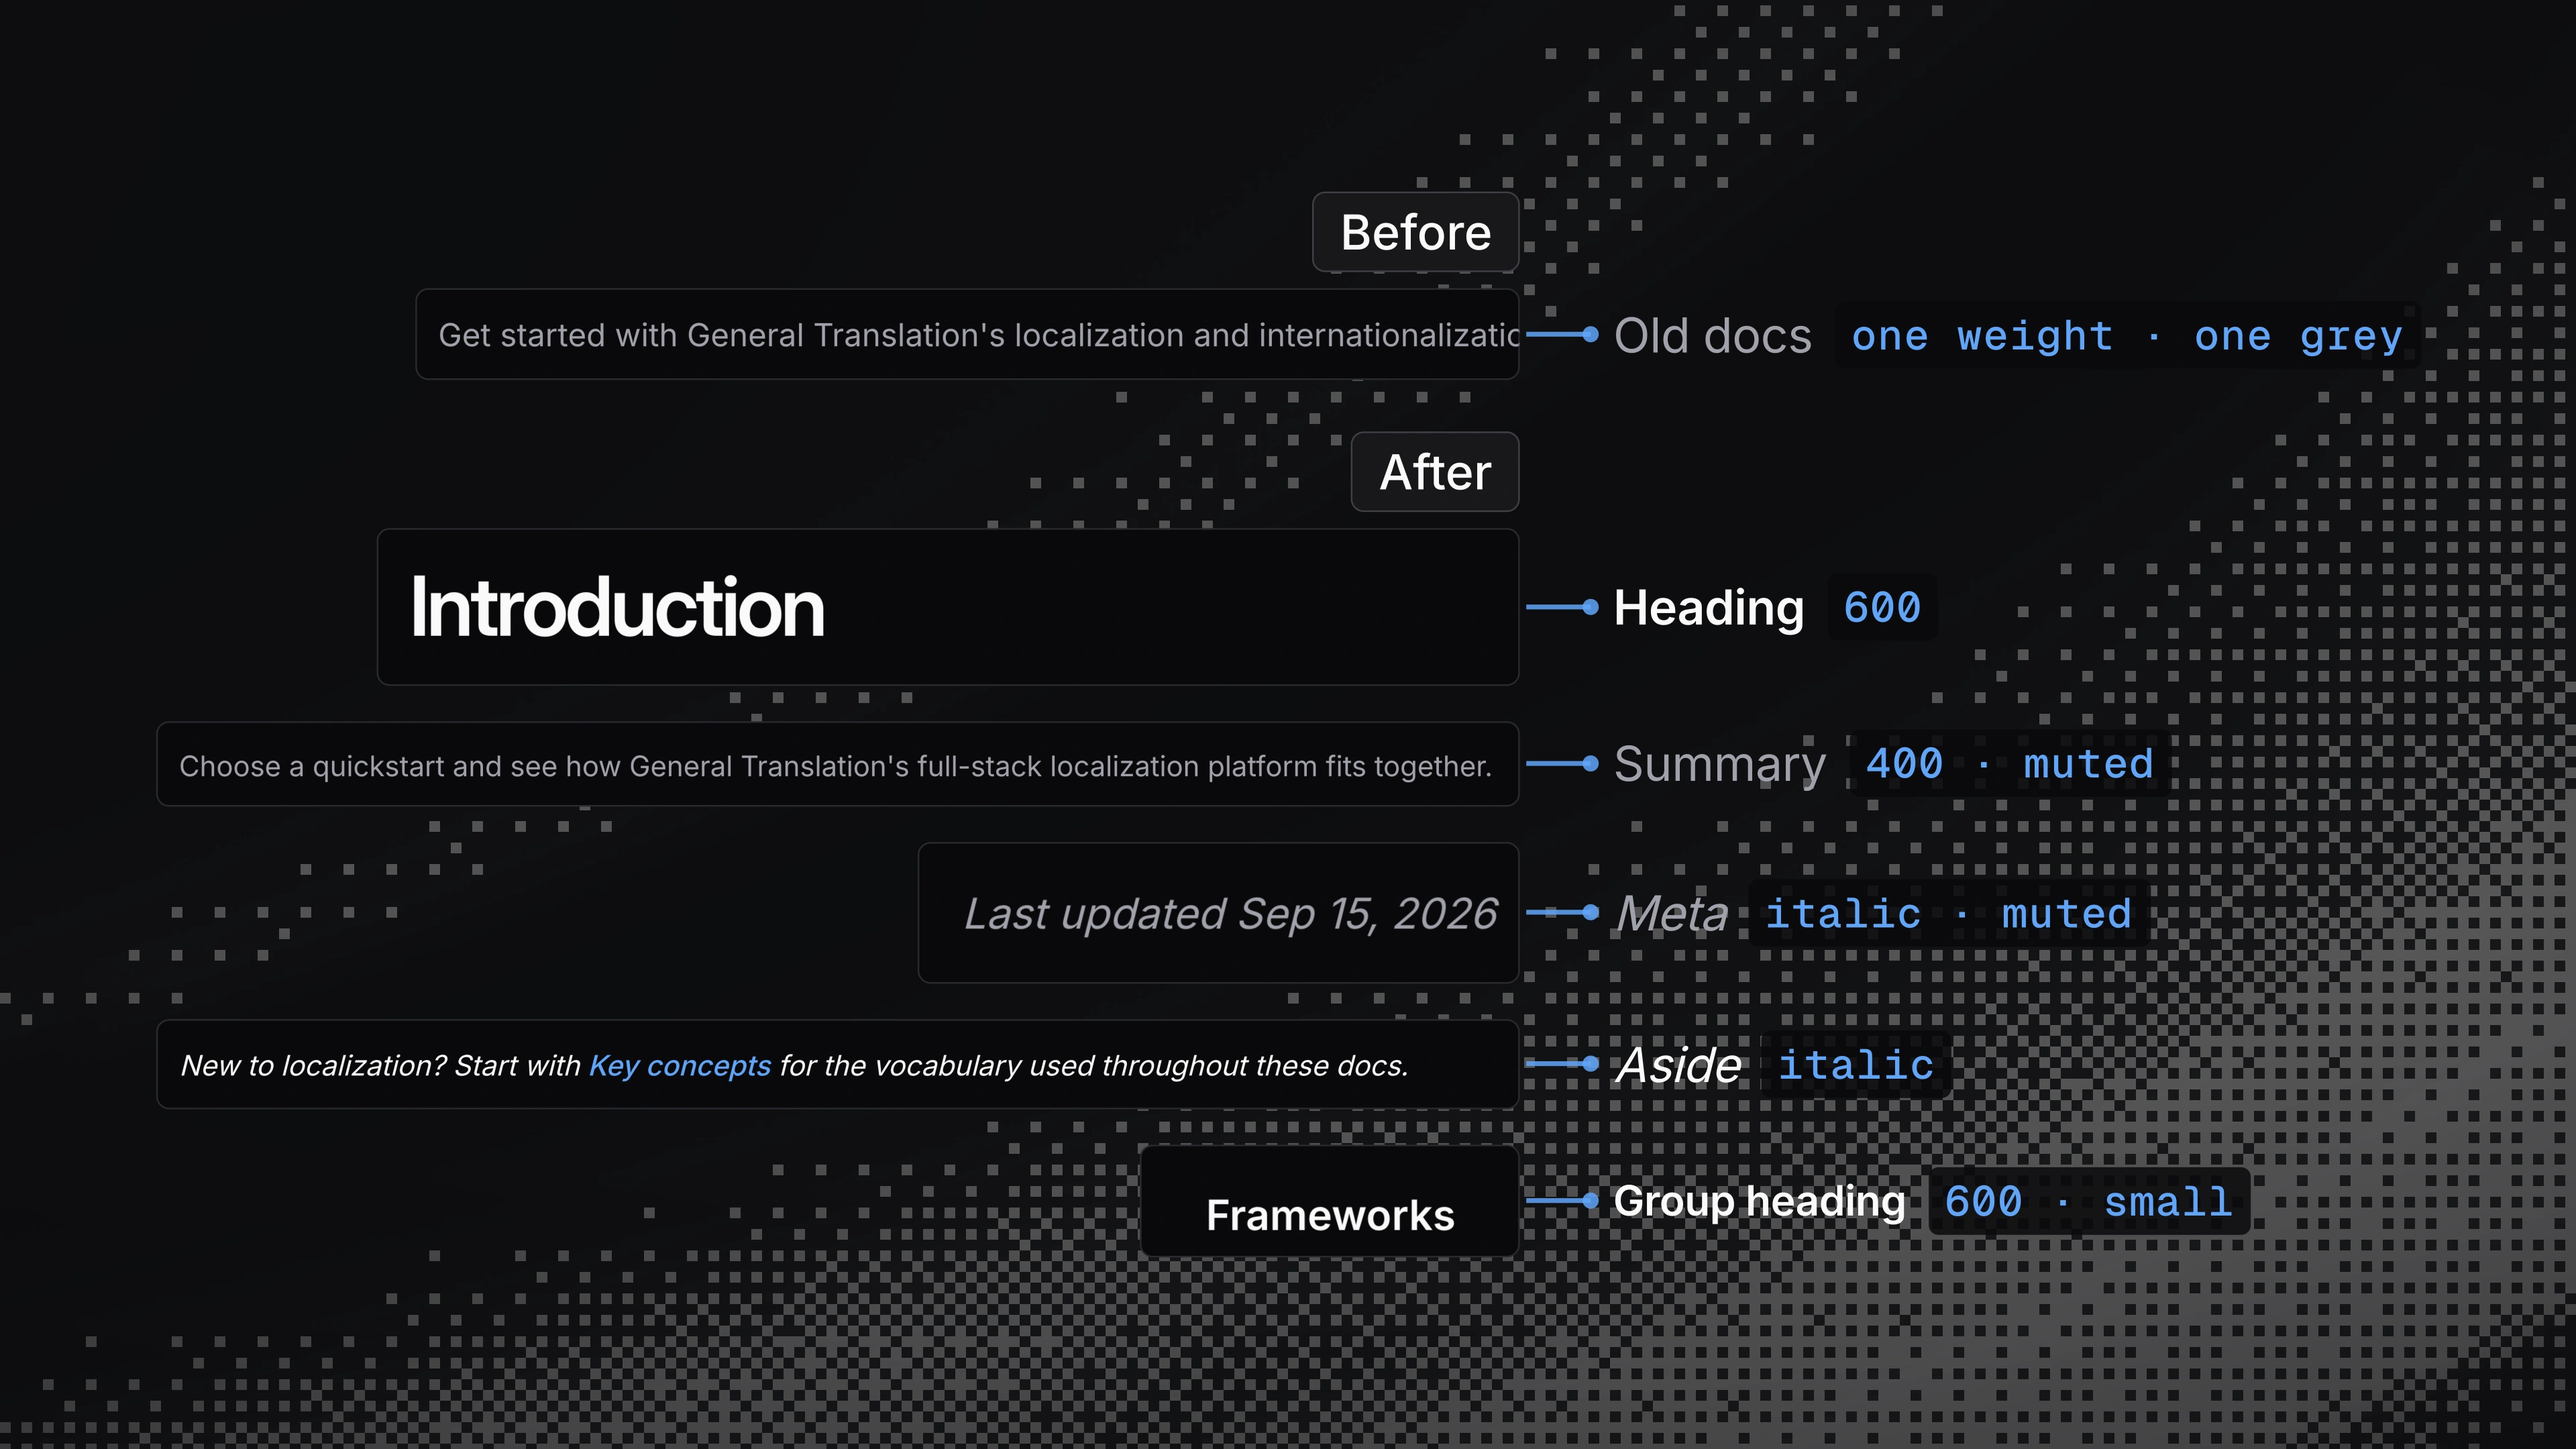
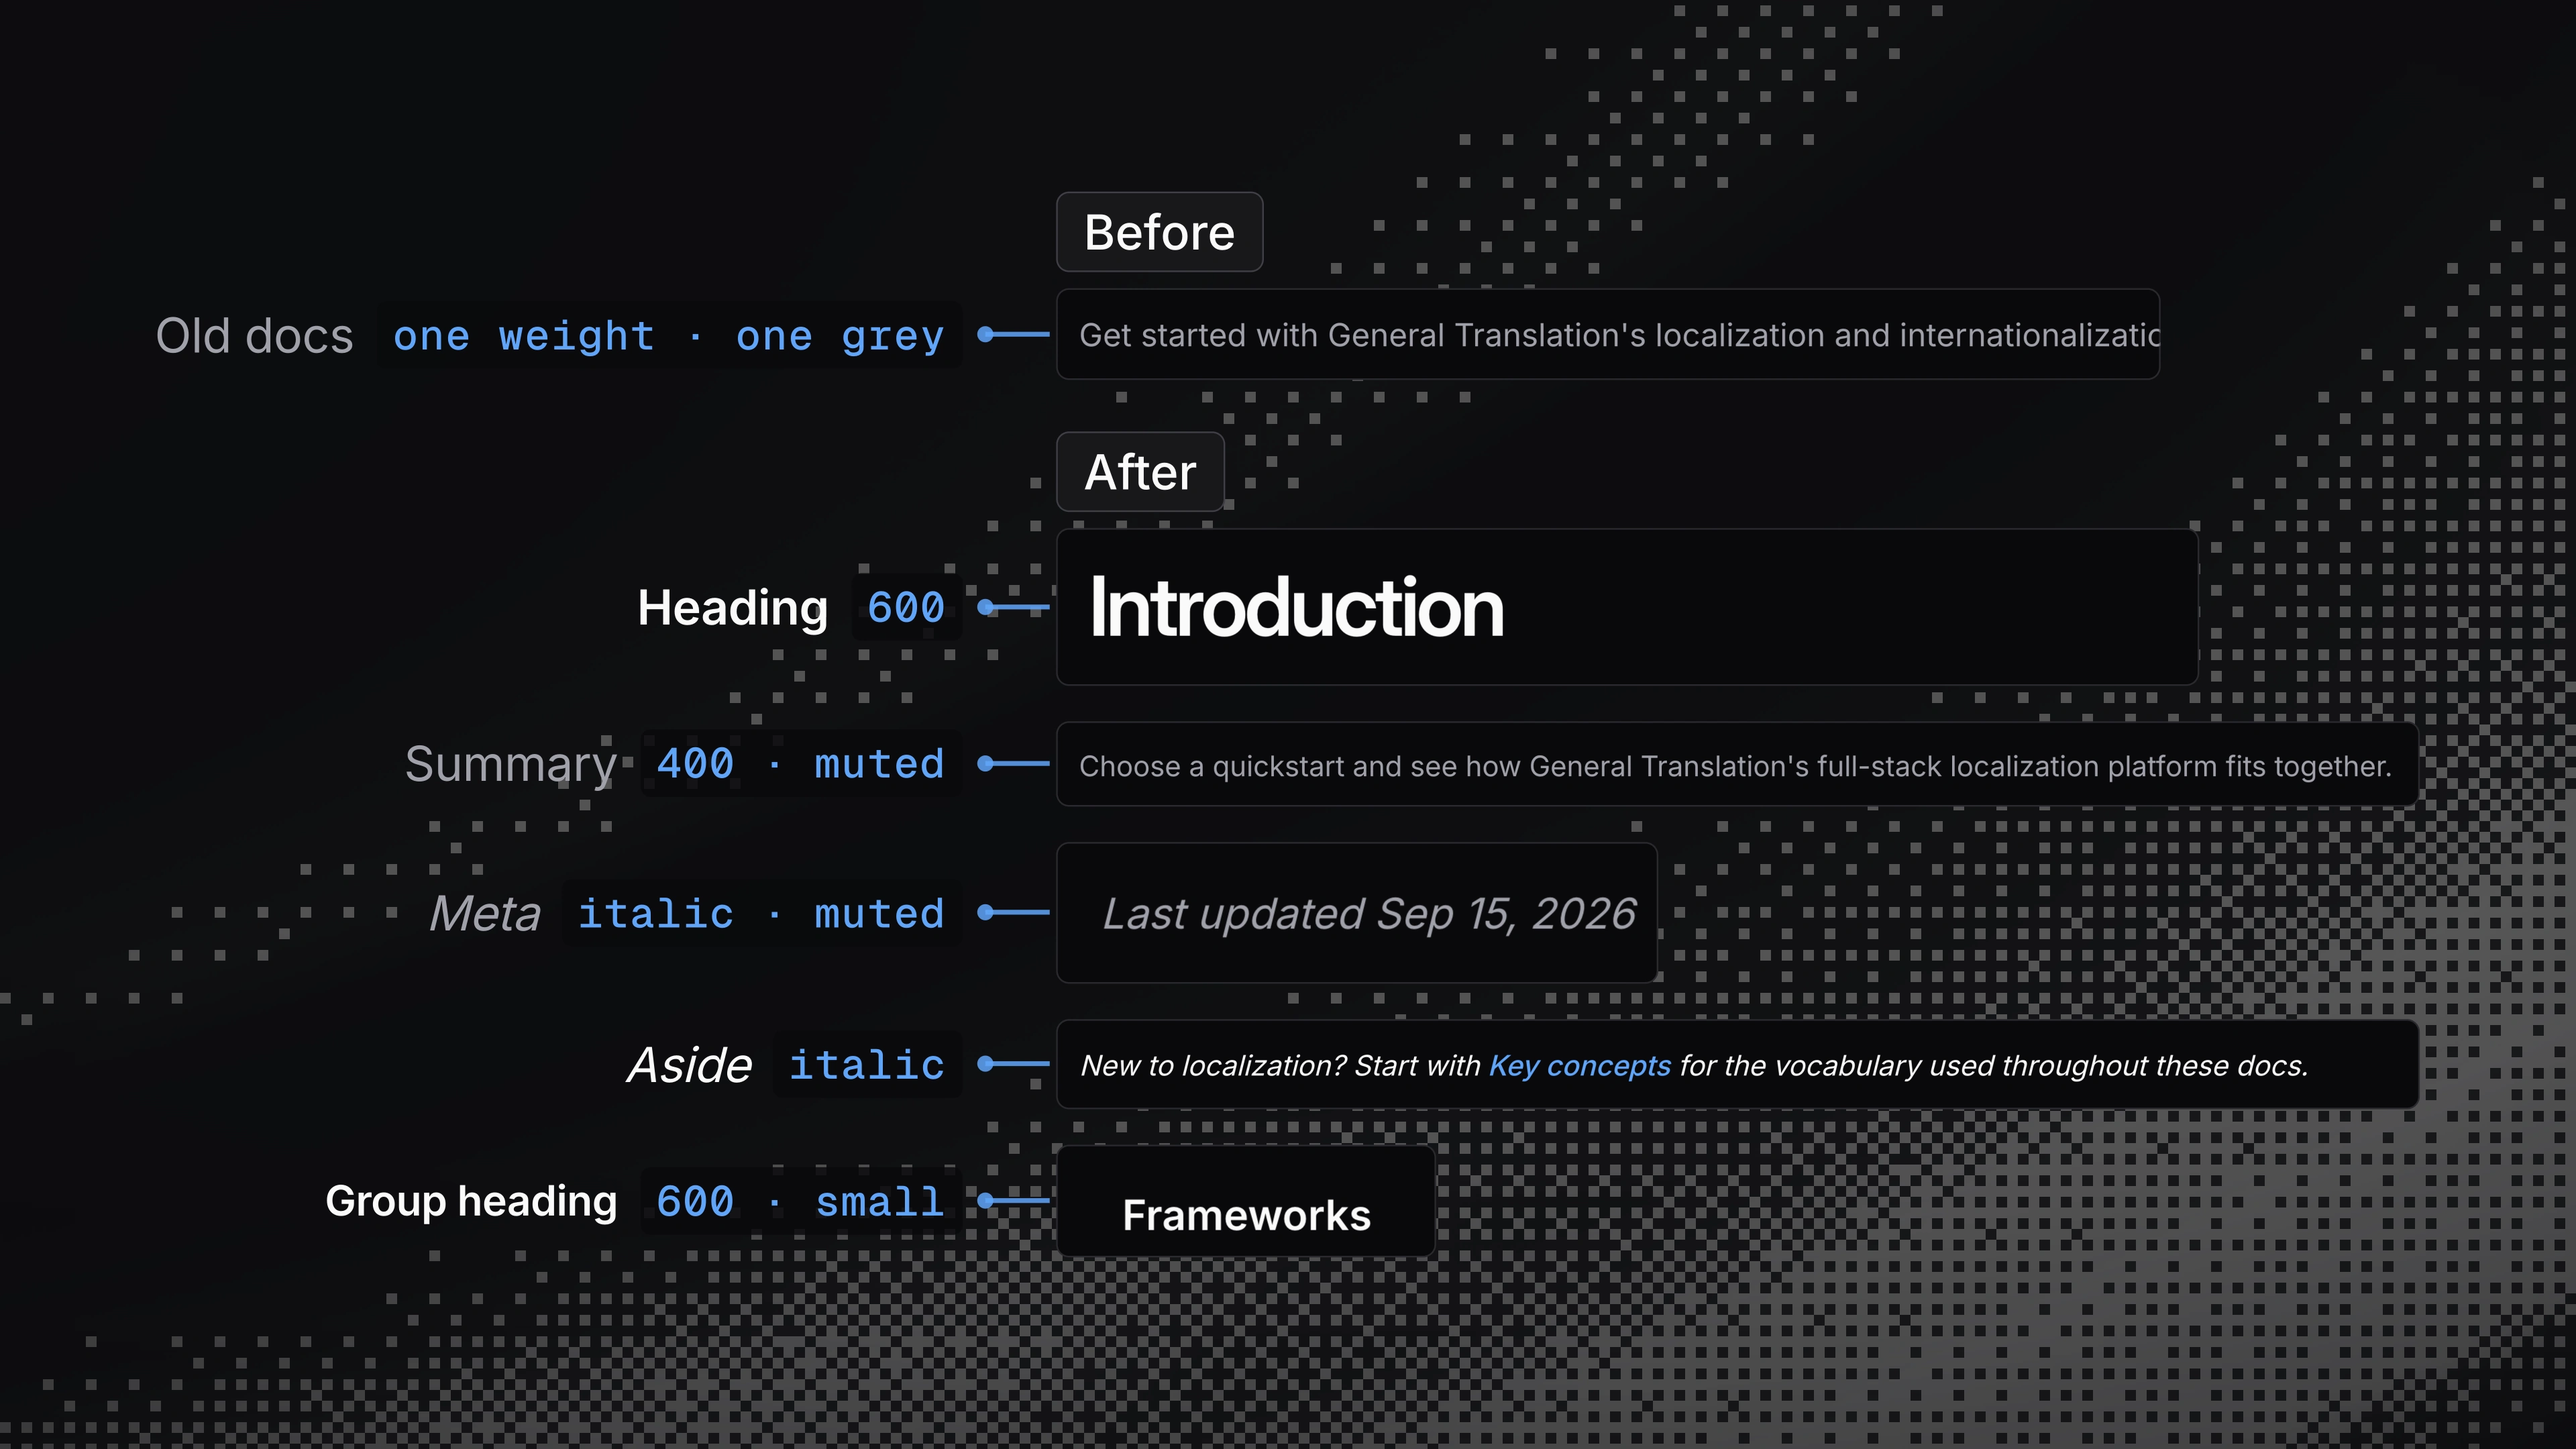
Specimen sides swapped; the corners slide's pill row reads

diff --git a/graphics/build/gen-visuals.js b/graphics/build/gen-visuals.js
@@ -246,15 +246,15 @@ add('C6-another-section', 'C', 'Another section', 'silk3', 'The same accordion i
 });
 
 // =============== AREA D ===============
-add('D1-type-specimen', 'D', 'Type specimen', 'silk5', 'Real type from the page at 110–220%, hung on one centre axis: the old docs’ single weight and grey first, then each new role, its sample right of nothing but the axis and its label set in the weight and style it names, with the spec beside it in mono.', () => {
-  let h = ''; const AXIS = 935, GAP = 24;
-  // a label: the role, set the way the page sets it, and its spec as a mono chip
-  const spec = (cy, role, css, chip) => `<div class="txt" style="left:${px(AXIS + 34)};top:${px(cy - 27)};display:flex;align-items:center;gap:14px;height:54px;white-space:nowrap"><span style="font:${css};letter-spacing:-.01em">${role}</span><span style="font:500 26px/1 'Geist Mono';letter-spacing:.03em;color:var(--blue2);padding:8px 10px;border-radius:6px;background:rgba(9,9,11,.85)">${chip}</span></div>`;
+add('D1-type-specimen', 'D', 'Type specimen', 'silk5', 'Real type from the page at 110–220%, hung on one centre axis: the old docs’ single weight and grey first, then each new role, its label (set in the weight and style it names, with the spec in mono) on the left of the axis and its sample on the right.', () => {
+  let h = ''; const AXIS = 620, GAP = 24;
+  // a label, right-aligned to the axis: the role, set the way the page sets it, and its spec as a mono chip
+  const spec = (cy, role, css, chip) => `<div class="txt" style="left:auto;right:${px(1600 - (AXIS - 34))};top:${px(cy - 27)};display:flex;justify-content:flex-end;align-items:center;gap:14px;height:54px;white-space:nowrap"><span style="font:${css};letter-spacing:-.01em">${role}</span><span style="font:500 26px/1 'Geist Mono';letter-spacing:.03em;color:var(--blue2);padding:8px 10px;border-radius:6px;background:rgba(9,9,11,.85)">${chip}</span></div>`;
   // the short tick across the axis that joins a sample to its label
-  const tick = (cy) => line(AXIS - 20, cy, AXIS + 20, cy, { color: 'rgba(96,165,250,.85)', w: 3, end: true });
+  const tick = (cy) => line(AXIS + 20, cy, AXIS - 20, cy, { color: 'rgba(96,165,250,.85)', w: 3, end: true });
   // a badge right-aligned to the axis, over its group of samples
-  const side = (y, t) => `<div class="badge" style="left:auto;right:${px(1600 - (AXIS - GAP))};top:${px(y)}">${t}</div>`;
-  const row = (shot, r, sc, y, pd, role, css, chip) => { const hh = pd ? (r.h + PAD + (pd.b != null ? pd.b : PAD)) * sc : PH(r, sc); const cy = y + hh / 2; let o = crop(shot, r, { x: AXIS - GAP - PW(r, sc), y, s: sc, cls: 'flat', style: 'border-color:rgba(63,63,70,.6)', pad: pd }); o += tick(cy); o += spec(cy, role, css, chip); return [o, y + hh + 22]; };
+  const side = (y, t) => `<div class="badge" style="left:${px(AXIS + GAP)};top:${px(y)}">${t}</div>`;
+  const row = (shot, r, sc, y, pd, role, css, chip) => { const hh = pd ? (r.h + PAD + (pd.b != null ? pd.b : PAD)) * sc : PH(r, sc); const cy = y + hh / 2; let o = crop(shot, r, { x: AXIS + GAP, y, s: sc, cls: 'flat', style: 'border-color:rgba(63,63,70,.6)', pad: pd }); o += tick(cy); o += spec(cy, role, css, chip); return [o, y + hh + 22]; };
   let y = 130; h += side(y, 'Before'); y += 60;
   let out; [out, y] = row('oldIntro', O.subtitleShort, 1.1, y, undefined, 'Old docs', "400 30px 'Inter';color:var(--muted)", 'one weight · one grey'); h += out;
   y += 10; h += side(y, 'After'); y += 60;
@@ -324,7 +324,7 @@ add('E3-corners', 'E', 'Corners', 'silk2', 'The old pill button and search field
   h += badge(X, 150, 'Before'); h += crop('oldIntro', O.demo, { x: X, y: 214, s: S, cls: 'flat', r: 10, style: 'border-color:rgba(63,63,70,.6)', pad: 8 }); h += crop('oldIntro', O.search, { x: X + PW(O.demo, S, 8) + 24, y: 214 + (PH(O.demo, S, 8) - PH(O.search, s2)) / 2, s: s2, cls: 'flat', r: 10, style: 'border-color:rgba(63,63,70,.6)' });
   h += badge(X, 500, 'After'); h += crop('newIntro', N.demo, { x: X, y: 564, s: S, cls: 'flat', r: 10, style: 'border-color:rgba(63,63,70,.6)', pad: 8 }); h += crop('newIntro', N.copy, { x: X + PW(N.demo, S, 8) + 24, y: 564 + (PH(N.demo, S, 8) - PH(N.copy, s2)) / 2, s: s2, cls: 'flat', r: 10, style: 'border-color:rgba(63,63,70,.6)' });
   h += panel(940, 130, 596, 640, plabel('swatch', 'Radius'));
-  [[4, 'controls'], [6, 'buttons · fields'], [8, 'cards'], [12, 'panels'], [999, 'pills']].forEach(([r, k], i) => { const y = 130 + 84 + i * 104; const bad = r === 999; h += `<div style="position:absolute;left:980px;top:${px(y)};width:200px;height:76px;border-radius:${px(Math.min(r, 38))};border:2px solid ${bad ? '#f0524f' : 'var(--border2)'};background:${bad ? 'rgba(240,82,79,.08)' : '#0c0c0f'}"></div>`; h += `<div class="txt" style="left:1210px;top:${px(y + 6)}"><div class="mono" style="font-size:28px;color:${bad ? '#f0524f' : 'var(--text)'}">${bad ? '9999' : r} px</div><div style="font:500 26px 'Inter';color:var(--muted);margin-top:6px">${k}</div></div>`; if (bad) h += `<div class="txt" style="left:1440px;top:${px(y + 22)};color:#f0524f">${ico('x-circle', 32)}</div>`; });
+  [[4, 'controls'], [6, 'buttons · fields'], [8, 'cards'], [12, 'panels'], [999, 'pills']].forEach(([r, k], i) => { const y = 130 + 84 + i * 104; const bad = r === 999; h += `<div style="position:absolute;left:980px;top:${px(y)};width:200px;height:76px;border-radius:${px(Math.min(r, 38))};border:${bad ? '3px' : '2.5px'} solid ${bad ? '#f0524f' : 'rgba(250,250,250,.55)'};background:${bad ? 'rgba(240,82,79,.3)' : '#0c0c0f'}"></div>`; h += `<div class="txt" style="left:1210px;top:${px(y + 6)}"><div class="mono" style="font-size:28px;color:${bad ? '#f0524f' : 'var(--text)'}">${bad ? '9999' : r} px</div><div style="font:500 26px 'Inter';color:${bad ? 'var(--text)' : 'var(--muted)'};margin-top:6px">${k}</div></div>`; if (bad) h += `<div class="txt" style="left:1440px;top:${px(y + 16)};display:inline-grid;place-items:center;width:44px;height:44px;border-radius:50%;background:rgba(240,82,79,.94);color:#fafafa;box-shadow:0 0 0 3px rgba(9,9,11,.6)">${ico('x-mark', 24)}</div>`; });
   return h;
 });
 add('E4-micro-ui', 'E', 'Flags, not emojis', 'silk3', 'The language menu with its custom matte flag SVGs beside the same list drawn with emoji flags, which are glossy and change from platform to platform.', () => {
